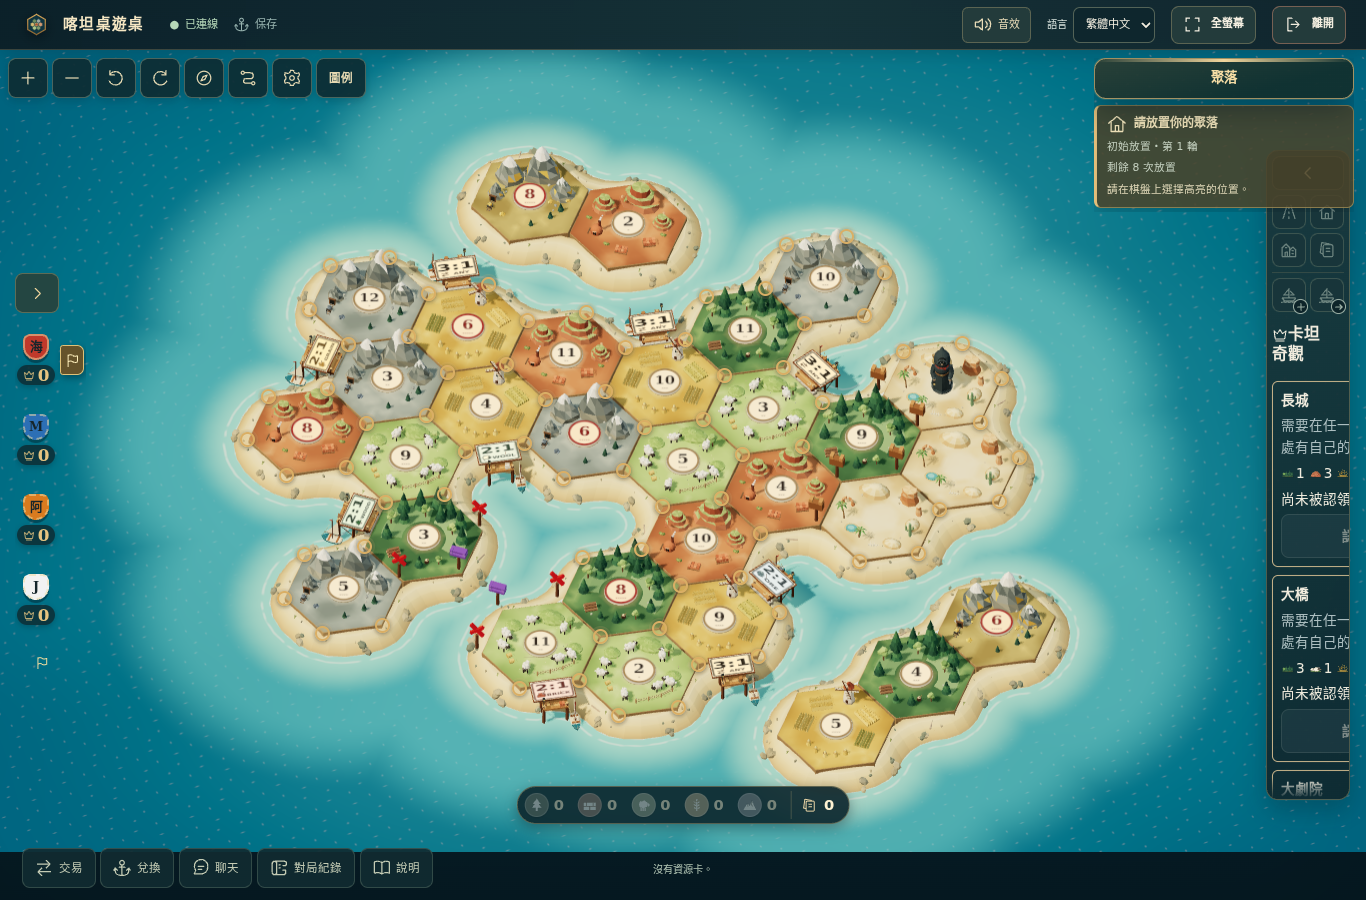
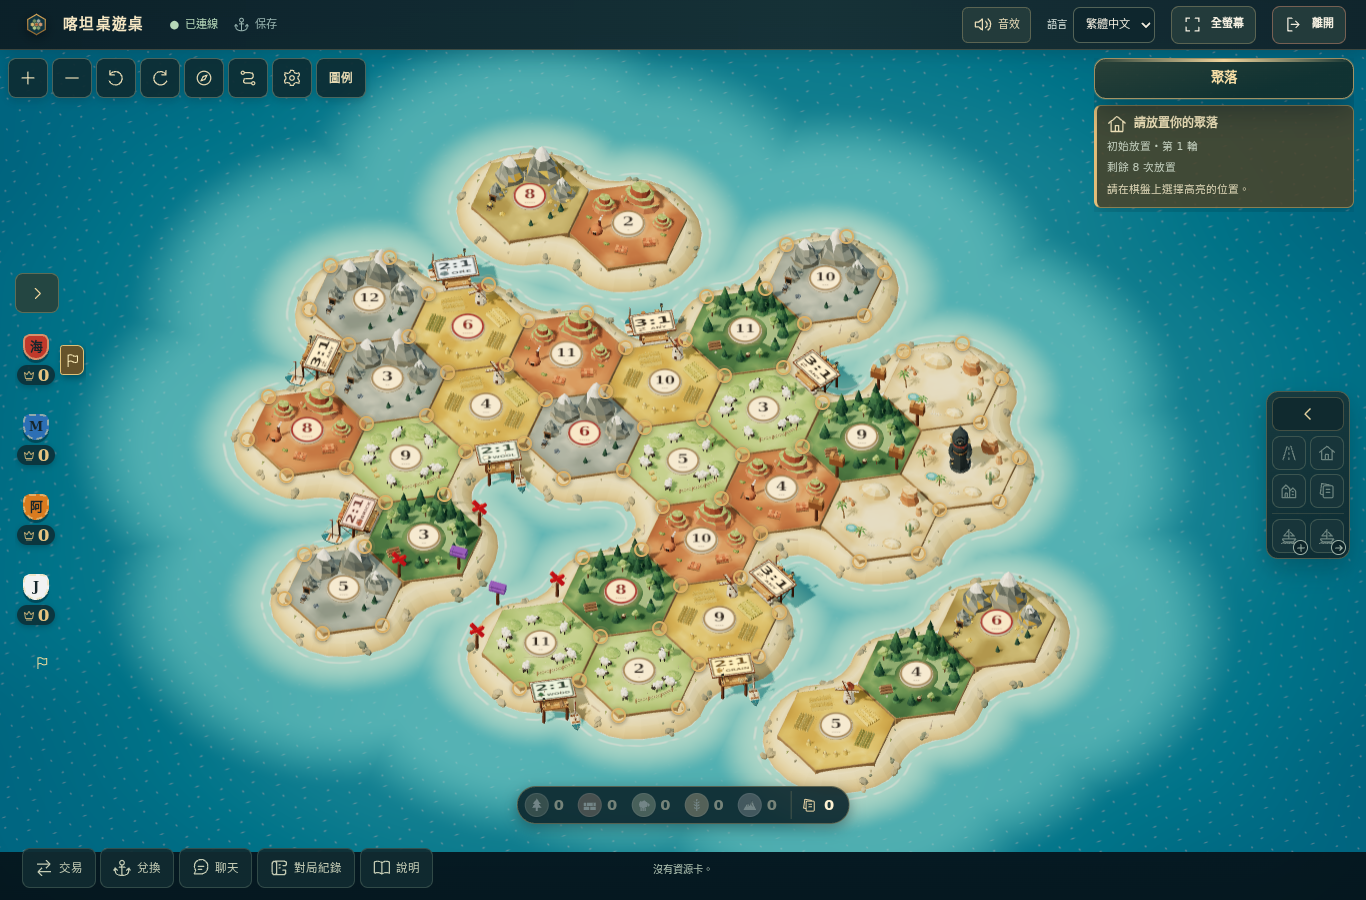
📝 docs(rules): refresh wonders of catan browser evidence
The capture asserts the wonder tiles are hidden in a collapsed rail and keeps
the pointer on the expanded rail for the panel shots; 13 cases, 12 captures
kept, with the report.

diff --git a/scripts/seafarers/capture_wonders_of_catan.py b/scripts/seafarers/capture_wonders_of_catan.py
@@ -31,6 +31,7 @@ are kept (``committed: true``), the other images are deleted after the run.
 """
 from __future__ import annotations
 
+import hashlib
 import json
 import os
 import subprocess
@@ -51,7 +52,7 @@ FIXTURE = str(base.ROOT / 'scripts/seafarers/wonders_fixture.mjs')
 CURATED = {
     'lobby-wonders-of-catan', 'map-3p-svg-desktop', 'map-4p-svg-desktop', 'map-4p-r3f-desktop', 'map-4p-svg-phone',
     'help-wonders-svg-desktop', 'live-claim-svg', 'live-build-3d', 'live-build-phone', 'live-result-wonder',
-    'live-result-wonder-phone',
+    'live-result-wonder-phone', 'live-rail-collapsed',
 }
 GREAT_WALL_COST = {'brick': 3, 'lumber': 1, 'grain': 1}
 
@@ -60,6 +61,26 @@ def fixture(*args, state):
     out = subprocess.run(['node', '--experimental-strip-types', FIXTURE, *args], input=json.dumps(state), check=True,
                          capture_output=True, text=True, cwd=base.ROOT).stdout
     return json.loads(out)
+
+
+def rail_open(page):
+    """Expand the action rail and keep the pointer over it (a collapsed rail hides the wonder tiles)."""
+    open_actions(page)
+    rail = page.get_by_test_id('action-rail')
+    if rail.count():
+        rail.hover()
+        expect(rail).to_have_attribute('data-expanded', 'true')
+
+
+def shot_rail(page, name, note, ms=700):
+    """Screenshot with the pointer kept on the expanded rail (``shot`` parks the pointer in a corner)."""
+    rail_open(page)
+    page.wait_for_timeout(ms)
+    path = OUT / f'{name}.png'
+    page.screenshot(path=str(path), animations='disabled', timeout=TIMEOUT)
+    REPORT['cases'].append({'name': name, 'status': 'PASS', 'note': note, 'sha256': hashlib.sha256(path.read_bytes()).hexdigest(),
+                            'viewport': page.viewport_size})
+    log('CAPTURE', name, note)
 
 
 def start_wonders(browser, count, lobby_shot=None):
@@ -184,17 +205,28 @@ def finish_live(contexts, pages, identity, game_id):
 
     # --- SVG：認領長城、蓋第 1 層 -----------------------------------------------------
     open_game(page, game_id, 'svg')
+    # 收合的行動列不顯示奇觀牌（不會被裁成半寬、不撐高 rail）；展開後才看得到。
+    page.mouse.move(5, 5)
+    page.wait_for_timeout(500)
+    expect(page.get_by_test_id('action-rail')).to_have_attribute('data-expanded', 'false')
+    assert not page.get_by_test_id('wonders-panel').is_visible(), 'wonders panel must be hidden while the rail is collapsed'
+    rail = page.get_by_test_id('action-rail').bounding_box()
+    assert rail['width'] < 120, rail
+    shot(page, 'live-rail-collapsed', 'collapsed action rail: no wonder tiles squeezed into the narrow rail')
     open_actions(page)
+    expect(page.get_by_test_id('wonders-panel')).to_be_visible()
     assert page.locator('[data-wonder-marker]').count() == 11
     hints = snap(contexts[0], path)['view']['hints']['modules']['seafarers']['wonders']
     assert hints['claimable'] == ['greatWall'], hints
     assert page.get_by_test_id('wonder-claim-greatBridge').count() == 0  # 已被玩家 2 拿走，沒有認領鈕
     expect(page.get_by_test_id('wonder-status-greatBridge')).to_contain_text(NAMES[1])
+    rail_open(page)
     page.get_by_test_id('wonder-claim-greatWall').click()
     expect(page.get_by_test_id('wonder-build')).to_be_visible()
     view = wonders_view()
     assert view['owned'][p1] == 'greatWall' and view['levels'][p1] == 0, view
-    shot(page, 'live-claim-svg', 'player 1 meets the Great Wall requirement and claims it in SVG (player 2 already holds the Great Bridge)')
+    shot_rail(page, 'live-claim-svg', 'player 1 meets the Great Wall requirement and claims it in SVG (player 2 already holds the Great Bridge)')
+    rail_open(page)
     page.get_by_test_id('wonder-build').click()
     page.wait_for_function("() => document.querySelector('[data-testid=\"wonder-card-greatWall\"]')?.dataset.level === '1'", timeout=TIMEOUT)
     view = wonders_view()
@@ -205,12 +237,12 @@ def finish_live(contexts, pages, identity, game_id):
     # --- 3D：蓋第 2 層 ---------------------------------------------------------------
     open_game(page, game_id, 'r3f')
     page.wait_for_function("() => document.querySelector('canvas')?.dataset.wonderMarkers === '5,2,4'", timeout=TIMEOUT)
-    open_actions(page)
+    rail_open(page)
     page.get_by_test_id('wonder-build').click()
     page.wait_for_function("() => document.querySelector('[data-testid=\"wonder-card-greatWall\"]')?.dataset.level === '2'", timeout=TIMEOUT)
     assert wonders_view()['levels'][p1] == 2
     expect(page.get_by_test_id('board')).to_have_attribute('data-effective-renderer', 'r3f')
-    shot(page, 'live-build-3d', 'level 2 built in 3D: markers stand on their vertices, the panel shows the level', ms=2500)
+    shot_rail(page, 'live-build-3d', 'level 2 built in 3D: markers stand on their vertices, the panel shows the level', ms=2500)
 
     # --- 手機 SVG：蓋第 3 層 ---------------------------------------------------------
     phone_ctx = browser_phone(contexts[0])
@@ -236,7 +268,7 @@ def finish_live(contexts, pages, identity, game_id):
 
     # --- 桌面 SVG：蓋第 4 層，奇觀完成，遊戲結束 -----------------------------------------
     open_game(page, game_id, 'svg')
-    open_actions(page)
+    rail_open(page)
     page.get_by_test_id('wonder-build').click()
     expect(page.get_by_test_id('result-screen')).to_be_visible()
     view = snap(contexts[0], path)['view']

diff --git a/docs/aegis/work/2026-11-24-seafarers-wonders-of-catan.md b/docs/aegis/work/2026-11-24-seafarers-wonders-of-catan.md
@@ -182,7 +182,8 @@ SF25 p. 1; nothing depends on a third-party source any more.
 | I18 | Variable setup | SF25 p. 18's random main island is S10; only the fixed map is offered. | spec |
 | I19 | Bots | Outside the bot support list: bot seats refused (`E_INVALID_BOT`, reason `profile`). | spec §7.4 |
 | I20 | D7 isolation | `wonders` exists in module state, the projection and the hints only in this scenario; `wonder.*` in any other scenario answers as an unknown command (`E_INVALID_COMMAND`, or `E_PENDING_EFFECT` with a pending frame). New error codes only exist for this scenario. | spec D7 |
-| I21 | Wonder tiles in the UI | The five tiles are one HTML panel in the action bar (claim and build buttons, requirement text, cost chips, each player's level), shared by the SVG and the 3D board; the markers are drawn inside both renderers. | design |
+| I21 | Wonder tiles in the UI | The five tiles are one HTML panel in the action bar (claim and build buttons, requirement text, cost chips, each player's level), shared by the SVG and the 3D board; the markers are drawn inside both renderers. The panel is hidden while the action rail is collapsed (it would be clipped to half width) and shown once the rail expands; it follows the same holds as the action list (offline, table suspended or syncing, dice shown, command in flight) and reads the pre-roll projection while the dice are shown. | design, review |
+| I22 | 7 and knight prompts | No pirate wording in this scenario (`sf.bandit.robberOnly`, `sf.bandit.knightRobberOnly`). | SF25 p. 18 |
 
 ## What was built
 
@@ -200,7 +201,7 @@ SF25 p. 1; nothing depends on a third-party source any more.
 - Rules (`seafarers-wonders-of-catan.test.ts`, 50 tests; whole suite 69 files, 1172 tests; `seafarers-exports.test.ts` 15, `profiles.test.ts` updated): topology (49 hexes, same hexes/edges/vertices as `sf-forgotten-tribe`, Euler, rows 6-7-8-7-8-7-6, protrusions absent, 9 distinct harbor edges each beside exactly one land hex) and the (-1, -3) shift; marker vertices (5 / 2 / 4, distinct, bridge pair adjacent, every X beside a bridge, wall chain beside deserts); layout checksums (terrain, 27 discs, islands 25/2/3, every transcribed cell, robber on a desert for 40 seeds and all three deserts reached, no pirate, nine harbor tokens, reproducible); profile and player counts; setup (large island only, off all 11 markers, other vertices open after setup, no setup bonus); island bonus (1 VP, others' presence irrelevant, both islands); the five requirements each with positive and negative cases (markers incl. other player's and the wrong marker kind, 2 cities, city + 6 VP with hidden cards, port city + route of 5 with ship/road joins only at an own building); one tile each, taken tiles, turn/phase/pending guards; cost per level for all five tiles with bank return, missing any one resource refused, several levels per turn, marker progress, requirement not re-checked, public view for every viewer, restart snapshot; both endings (10 VP + strictly higher level, tie/lower/third-player no, 9 VP no, level 0 no, hidden VP counts, completion at low score, event and view without target) ; pirate off; D7 (no `wonders` in other scenarios, target-path output unchanged). `seafarers-sim.test.ts`: 3 and 4 players to a wonder winner with a conserved bank, one wonder per tile holder, levels at most 4, no pirate, wonders claimed and built across seeds.
 - Service (`seafarers-wonders-of-catan.test.ts`, 5 tests; whole suite 39 files, 406 passed and 20 skipped): enabled and selectable without bot seats, rooms for 3 and 4, 5 and 6 refused, bot seat refused (`profile`), 3 and 4 player starts (topology, 10 VP, robber on a desert, no pirate, 9 harbors, 11 markers, same view for everyone), setup off the markers, claim and level 1 over the API, **restart mid-game**, another player refused, levels 2–4, completion (`wonderComplete`, `game.finished` without `target`) and the room `completed`. `rooms`, `session`, `seafarers-scenarios-registry` updated.
 - Web (`seafarers-wonders-of-catan.test.tsx`, 15 tests; whole suite 85 files, 1088 tests): SVG markers (5 / 2 / 4 with titles, no pirate; other scenarios still draw the pirate), 3D marker models and vertices, the panel (five tiles with requirement and cost, claim and build buttons and their commands, holder and level, zh-Hant names, nothing elsewhere), players panel level and 1-point islands, help, events and result screen for both endings and the unchanged target ending, sound cues. `rulesets.test.ts` updated.
-- Browser: `scripts/seafarers/capture_wonders_of_catan.py` (Chromium, software WebGL, `SF_TIMEOUT=90000`, 12 cases, 0 page errors; after each UI command the service state is read back): lobby (3–4 players only), the 3- and 4-player map in SVG (49 hexes, 9 harbors, 5 / 2 / 4 `[data-wonder-marker]`, no pirate) and 3D (canvas `data-wonder-markers` = `5,2,4`), phone for 4, setup over the API (`wonders_fixture.mjs check`: all on the large island and off all markers), the help panel, then a live game for player 1: test-only fixture (service stopped) gives the turn, a settlement on a Great Wall marker, four levels of resources and player 2 a started Great Bridge. **SVG**: claim (the Great Bridge has no claim button, shows player 2's level) and level 1; **3D**: level 2; **phone** (touch context): level 3 with the build button in the panel; **desktop SVG**: level 4, the result screen shows the wonder ending with no target (`data-cause=wonderComplete`, no horizontal overflow in a phone-sized viewport), every client reads the same `playerIds` / `cause`. Report with sha256: `docs/screenshots/seafarers-wonders-of-catan/report.json`; the curated captures are `committed: true` (the 3-player 3D map is not kept).
+- Browser: `scripts/seafarers/capture_wonders_of_catan.py` (Chromium, software WebGL, `SF_TIMEOUT=90000`, 13 cases, 0 page errors; after each UI command the service state is read back): lobby (3–4 players only), the 3- and 4-player map in SVG (49 hexes, 9 harbors, 5 / 2 / 4 `[data-wonder-marker]`, no pirate) and 3D (canvas `data-wonder-markers` = `5,2,4`), phone for 4, setup over the API (`wonders_fixture.mjs check`: all on the large island and off all markers), the help panel, then a live game for player 1: test-only fixture (service stopped) gives the turn, a settlement on a Great Wall marker, four levels of resources and player 2 a started Great Bridge. **SVG**: claim (the Great Bridge has no claim button, shows player 2's level) and level 1; **3D**: level 2; **phone** (touch context): level 3 with the build button in the panel; **desktop SVG**: level 4, the result screen shows the wonder ending with no target (`data-cause=wonderComplete`, no horizontal overflow in a phone-sized viewport), every client reads the same `playerIds` / `cause`. Report with sha256: `docs/screenshots/seafarers-wonders-of-catan/report.json`; the curated captures are `committed: true` (the 3-player 3D map is not kept).
 
 ## Limitations
 
